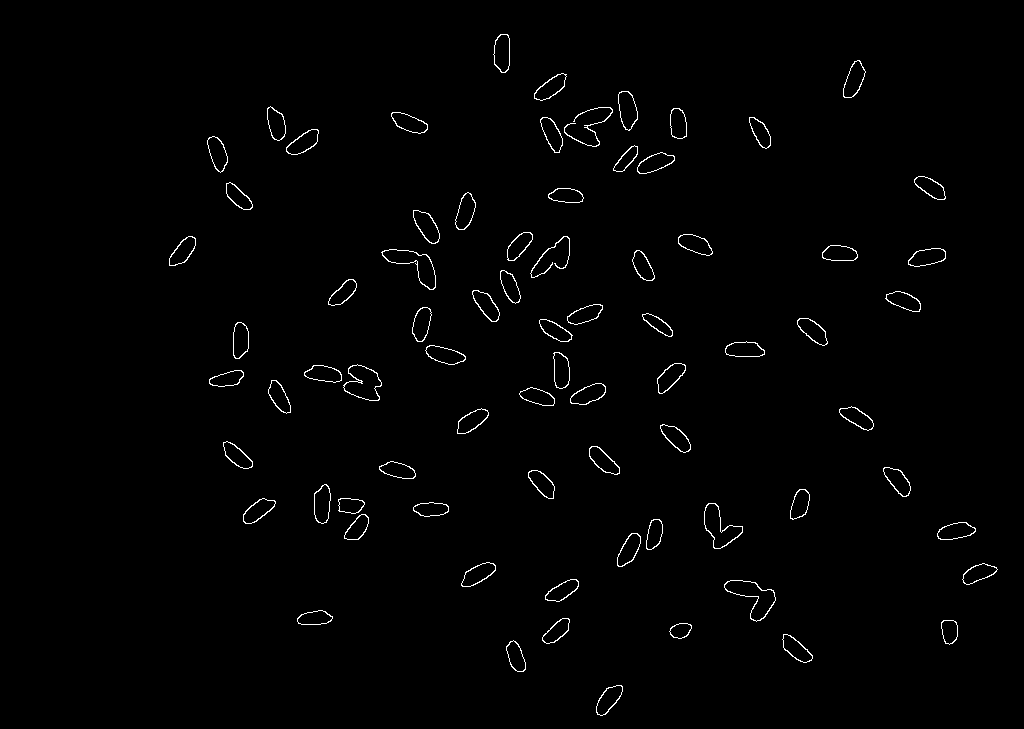
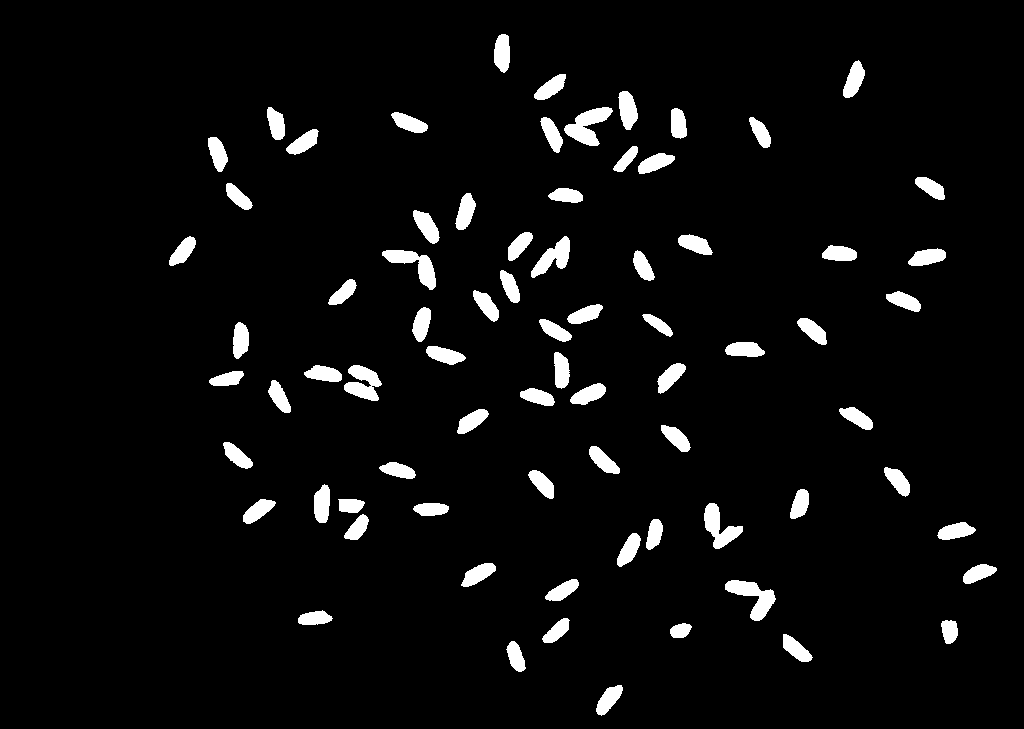
Test adaptative+global

diff --git a/main.py b/main.py
@@ -17,14 +17,34 @@ def main():
         if img is None:
             print('Failed to open image. \n')
             sys.exit()
+
+        #img = img.astype (np.float32) / 255
         
-        blur = cv2.bilateralFilter(img, 11, 85, 101)
+        blur = cv2.bilateralFilter(img, d=-1, sigmaColor=50, sigmaSpace=3)
+        
+        #blur = cv2.adaptiveThreshold(img, maxValue=)
+
+        adaptativeThreshold = cv2.adaptiveThreshold(blur, C=-5, blockSize=31, maxValue=1, adaptiveMethod=cv2.ADAPTIVE_THRESH_GAUSSIAN_C, thresholdType=cv2.THRESH_BINARY)
+
+        val, globalThreshold = cv2.threshold(blur, thresh=0, maxval=1, type=cv2.THRESH_BINARY+cv2.THRESH_OTSU)
+
+        mask = adaptativeThreshold * globalThreshold
+
+        #out = cv2.GaussianBlur(out, ksize=(0, 0), sigmaX=2.0)
+
+        #out = blur[:] - (out[:] + 1)
+
+        #out = (out.astype(np.float32)/255) * blur
+
+        #out = np.where(out > 200, out, 0)
+        #out = out*255
+        #out = blur*0.5 + (out * blur)*0.5
 
         # CannyAccThresh = cv2.threshold(img ,0,255, cv2.THRESH_BINARY|cv2.THRESH_OTSU)
 
         # CannyThresh = 0.1 * CannyAccThresh
         
-        edges = cv2.Canny(blur, 75, 100)
+        #edges = cv2.Canny(out, 75, 100, 5)
         
         '''blur = cv2.bilateralFilter(img, 9, 75, 75)
         thr = cv2.adaptiveThreshold(blur, 255, cv2.ADAPTIVE_THRESH_MEAN_C, cv2.THRESH_BINARY_INV, 31, 2)
@@ -36,7 +56,7 @@ def main():
         fechamento = cv2.morphologyEx(abertura, cv2.MORPH_CLOSE, kernel, iterations=1)'''
 
 
-        cv2.imwrite(f'test{nome}.png', edges)
+        cv2.imwrite(f'test{nome}.png', mask*255)
         
 
 if __name__ == '__main__':
